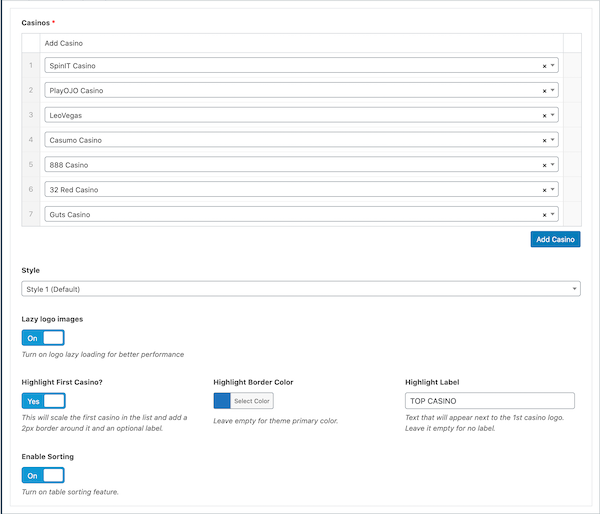
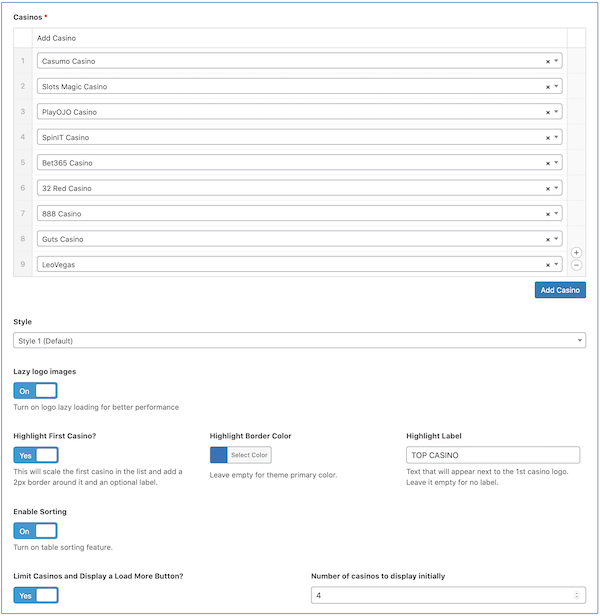
Spinoko 1.0.8

Changed region(s): [[0.0, 0.0, 1.0, 1.0], [0.66, 0.6848, 0.96, 0.8405], [0.33, 0.6848, 0.57, 0.8405]]

diff --git a/build_production/docs/spinoko/blocks/index.html b/build_production/docs/spinoko/blocks/index.html
@@ -777,9 +777,11 @@ Select the style from the dropdown menu and whether to lazy load images or not, 
 
 <p>Casino Table block offers you multiple styles and options. You can display tables with default or compact layout, and you can display terms as a popover, as a link or as a plain text.</p>
 
-<p>You can also enable <strong>table sorting</strong> for your tables regardless of their styles. It will add 5 buttons on top of the table to sort by: Name, Year, Rating, Bonus, Bonus %. You can customize the button texts in <strong>Customizer</strong> &#8594; <strong>Strings</strong> and you can change which buttons to display by following <a href="/docs/spinoko/how-to#how-to-change-table-sorting-keys">these steps</a>.</p>
+<p><code>💁 since version 1.0.4</code> you can also enable <strong>table sorting</strong> for your tables regardless of their styles. It will add 5 buttons on top of the table to sort by: Name, Year, Rating, Bonus, Bonus %. You can customize the button texts in <strong>Customizer</strong> &#8594; <strong>Strings</strong> and you can change which buttons to display by following <a href="/docs/spinoko/how-to#how-to-change-table-sorting-keys">these steps</a>.</p>
 
 <p><code>💁 since version 1.0.6</code> you can enable <strong>Highlight First Casino</strong> option and choose the highlight color (by default it's the theme primary color) and add an optional label to the 2st casino.</p>
+
+<p><code>💁 since version 1.0.8</code> you can enable <strong>Limit Casinos and Display a Load More Button</strong> option and select how many casinos to display initially. This option will hide the rest of the casinos and add a "Load more Casinos" button below the table. When a user clicks on the button the rest of the casinos are displayed as well.</p>
 
 <p><img src="/assets/images/spinoko/spinoko-blocks-table-admin.png" alt="spinoko-blocks-table-admin" /></p>
 
@@ -872,7 +874,7 @@ Select the style from the dropdown menu and whether to lazy load images or not, 
 
         <nav id="js-page-menu" class="page-menu hidden py-8 lg:w-48 lg:max-w-sidebar lg:block sticky" style="top: 4rem;">
             <h4 class="mb-8 font-bold text-grey text-lg pb-1 border-b inline-block">
-                SPINOKO v1.0.7
+                SPINOKO v1.0.8
             </h4>
 
             <div id="page-menu-wrapper" class="mb-8"></div>

diff --git a/build_production/docs/spinoko/how-to/index.html b/build_production/docs/spinoko/how-to/index.html
@@ -752,6 +752,37 @@
 
 <hr />
 
+<h3>How To Remove Labels from Archive Page Titles</h3>
+
+<p>By default in any WordPress installation archive page titles contain a label plus the it's name/title, for example a page title for a category "Bonuses" is "Category: Bonuses" and the same if for tags, authors, etc.</p>
+
+<p>If you want to remove those labels and just have the actual titles only, add the below function to your <a href="/docs/spinoko/child-theme">child theme</a>'s <code>functions.php</code> file.</p>
+
+<pre><code class="language-php">/**
+ * Removes labels (category, tag, author) from archive page titles.
+ */
+function spinoko_child_archive_titles( $title ) {
+
+    if ( is_category() ) {
+
+        $title = single_cat_title( '', false );
+
+    } elseif ( is_tag() ) {
+
+        $title = single_tag_title( '', false );
+
+    } elseif ( is_author() ) {
+
+        $title = get_the_author();
+    }
+
+    return $title;
+}
+add_filter( 'get_the_archive_title', 'spinoko_child_archive_titles' );
+</code></pre>
+
+<hr />
+
 <h3>How To Use Custom Payment Icons</h3>
 
 <p>Spinoko comes wth carefully chosen payment icons that both look nice on the page are optimal for performance. You can add your own icons by following the steps below.</p>
@@ -831,7 +862,7 @@ add_filter( 'spinoko_table_sorting_keys', 'spinoko__change_table_sort_keys' );
 
         <nav id="js-page-menu" class="page-menu hidden py-8 lg:w-48 lg:max-w-sidebar lg:block sticky" style="top: 4rem;">
             <h4 class="mb-8 font-bold text-grey text-lg pb-1 border-b inline-block">
-                SPINOKO v1.0.7
+                SPINOKO v1.0.8
             </h4>
 
             <div id="page-menu-wrapper" class="mb-8"></div>

diff --git a/build_production/docs/spinoko/customizations/index.html b/build_production/docs/spinoko/customizations/index.html
@@ -775,7 +775,7 @@ In admin dashboard visit <strong>Appearance</strong> &#8594; <strong>Customize</
 
 <h3>Fonts</h3>
 
-<p>Select the font family and base font size for your website.</p>
+<p>Select the font family and base font size for your website. Language specific font families (such as Arabic, Chinese, etc.) are also included.</p>
 
 <p><img src="/assets/images/spinoko/spinoko-customizer-fonts.png" alt="Theme Customizations" /></p>
 
@@ -840,7 +840,7 @@ In admin dashboard visit <strong>Appearance</strong> &#8594; <strong>Customize</
 
         <nav id="js-page-menu" class="page-menu hidden py-8 lg:w-48 lg:max-w-sidebar lg:block sticky" style="top: 4rem;">
             <h4 class="mb-8 font-bold text-grey text-lg pb-1 border-b inline-block">
-                SPINOKO v1.0.7
+                SPINOKO v1.0.8
             </h4>
 
             <div id="page-menu-wrapper" class="mb-8"></div>

diff --git a/build_production/docs/spinoko/navigation/index.html b/build_production/docs/spinoko/navigation/index.html
@@ -1083,7 +1083,7 @@ require_once get_stylesheet_directory() . '/spinoko-additional-navigation.php';
 
         <nav id="js-page-menu" class="page-menu hidden py-8 lg:w-48 lg:max-w-sidebar lg:block sticky" style="top: 4rem;">
             <h4 class="mb-8 font-bold text-grey text-lg pb-1 border-b inline-block">
-                SPINOKO v1.0.7
+                SPINOKO v1.0.8
             </h4>
 
             <div id="page-menu-wrapper" class="mb-8"></div>

diff --git a/build_production/docs/spinoko/page-templates/index.html b/build_production/docs/spinoko/page-templates/index.html
@@ -801,7 +801,7 @@ Here you can add a subtitle and choose whether to display casinos on the page co
 
         <nav id="js-page-menu" class="page-menu hidden py-8 lg:w-48 lg:max-w-sidebar lg:block sticky" style="top: 4rem;">
             <h4 class="mb-8 font-bold text-grey text-lg pb-1 border-b inline-block">
-                SPINOKO v1.0.7
+                SPINOKO v1.0.8
             </h4>
 
             <div id="page-menu-wrapper" class="mb-8"></div>

diff --git a/build_production/docs/spinoko/widgets/index.html b/build_production/docs/spinoko/widgets/index.html
@@ -778,7 +778,7 @@ Or you can use the Customizer, visit <strong>Appearance</strong> &#8594; <strong
 
         <nav id="js-page-menu" class="page-menu hidden py-8 lg:w-48 lg:max-w-sidebar lg:block sticky" style="top: 4rem;">
             <h4 class="mb-8 font-bold text-grey text-lg pb-1 border-b inline-block">
-                SPINOKO v1.0.7
+                SPINOKO v1.0.8
             </h4>
 
             <div id="page-menu-wrapper" class="mb-8"></div>

diff --git a/build_production/docs/spinoko/amp/index.html b/build_production/docs/spinoko/amp/index.html
@@ -769,7 +769,7 @@
 
         <nav id="js-page-menu" class="page-menu hidden py-8 lg:w-48 lg:max-w-sidebar lg:block sticky" style="top: 4rem;">
             <h4 class="mb-8 font-bold text-grey text-lg pb-1 border-b inline-block">
-                SPINOKO v1.0.7
+                SPINOKO v1.0.8
             </h4>
 
             <div id="page-menu-wrapper" class="mb-8"></div>

diff --git a/build_production/docs/spinoko/casino-page-blocks/index.html b/build_production/docs/spinoko/casino-page-blocks/index.html
@@ -795,7 +795,7 @@
 
         <nav id="js-page-menu" class="page-menu hidden py-8 lg:w-48 lg:max-w-sidebar lg:block sticky" style="top: 4rem;">
             <h4 class="mb-8 font-bold text-grey text-lg pb-1 border-b inline-block">
-                SPINOKO v1.0.7
+                SPINOKO v1.0.8
             </h4>
 
             <div id="page-menu-wrapper" class="mb-8"></div>

diff --git a/build_production/docs/spinoko/casino-page-templates/index.html b/build_production/docs/spinoko/casino-page-templates/index.html
@@ -798,7 +798,7 @@
 
         <nav id="js-page-menu" class="page-menu hidden py-8 lg:w-48 lg:max-w-sidebar lg:block sticky" style="top: 4rem;">
             <h4 class="mb-8 font-bold text-grey text-lg pb-1 border-b inline-block">
-                SPINOKO v1.0.7
+                SPINOKO v1.0.8
             </h4>
 
             <div id="page-menu-wrapper" class="mb-8"></div>

diff --git a/build_production/docs/spinoko/child-theme/index.html b/build_production/docs/spinoko/child-theme/index.html
@@ -757,7 +757,7 @@
 
         <nav id="js-page-menu" class="page-menu hidden py-8 lg:w-48 lg:max-w-sidebar lg:block sticky" style="top: 4rem;">
             <h4 class="mb-8 font-bold text-grey text-lg pb-1 border-b inline-block">
-                SPINOKO v1.0.7
+                SPINOKO v1.0.8
             </h4>
 
             <div id="page-menu-wrapper" class="mb-8"></div>

diff --git a/build_production/docs/spinoko/creating-casino-pages/index.html b/build_production/docs/spinoko/creating-casino-pages/index.html
@@ -779,7 +779,7 @@
 
         <nav id="js-page-menu" class="page-menu hidden py-8 lg:w-48 lg:max-w-sidebar lg:block sticky" style="top: 4rem;">
             <h4 class="mb-8 font-bold text-grey text-lg pb-1 border-b inline-block">
-                SPINOKO v1.0.7
+                SPINOKO v1.0.8
             </h4>
 
             <div id="page-menu-wrapper" class="mb-8"></div>

diff --git a/build_production/docs/spinoko/index.html b/build_production/docs/spinoko/index.html
@@ -781,7 +781,7 @@
 
         <nav id="js-page-menu" class="page-menu hidden py-8 lg:w-48 lg:max-w-sidebar lg:block sticky" style="top: 4rem;">
             <h4 class="mb-8 font-bold text-grey text-lg pb-1 border-b inline-block">
-                SPINOKO v1.0.7
+                SPINOKO v1.0.8
             </h4>
 
             <div id="page-menu-wrapper" class="mb-8"></div>
